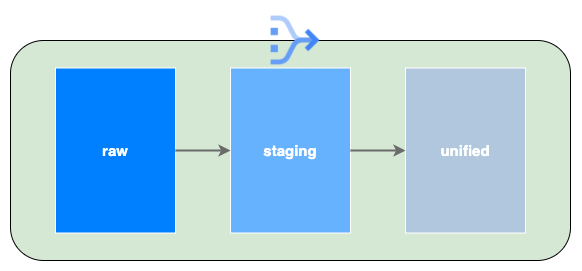
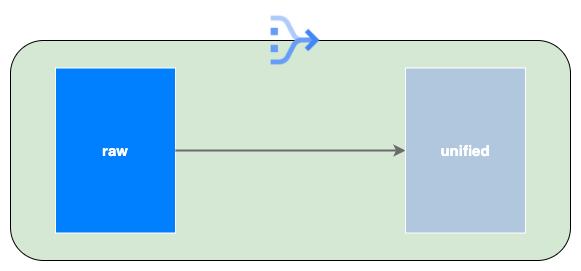
docs: atualiza documentação com a remoção da camada staging

diff --git a/readme.md b/readme.md
@@ -11,12 +11,11 @@ Este pipeline é completamente desenvolvido no ambiente da ferramenta Dataform (
 #### Descricão das Camadas
 
 - **Camada raw**: possui os dados extraidos da Maxmind sem nenhum tipo de tratamento;
-- **Camada staging**: possui as tabelas city_blocks_ipv[4|6] com duas novas colunas que representam o IP inicial e o IP final de uma rede (campo network). Por exemplo, para uma rede ``10.0.0.0/24``, o IP inicial será ``	10.0.0.0`` e o IP final será ``	10.0.0.255``, dados que a máscara de sub-rede ``24`` engloba 256 endereços;
-- **Camada unified**: Une as tabelas staging com a tabela city_locations. Ou seja, agrega a informação de IP com a informação de geolocalização.
+
+- **Camada unified**: Une as tabelas city_blocks com a tabela city_locations. Ou seja, agrega a informação de IP com a informação de geolocalização. Cria os campos ```network_bin``` e ```mask``` para simplificar as consultas.
 
 ![tabelas](docs/img/tabelas.png)
 
-> Nota: Ainda não temos a camada unified para a versão IPv6. Pois o Bigquery não possui funções nativas que permitem encontrar IP inicial e final. Estamos trabalhando no desenvolvimento de uma UDF para entregar esta tabela.
 
 ## Estrutura do Projeto
 ```
